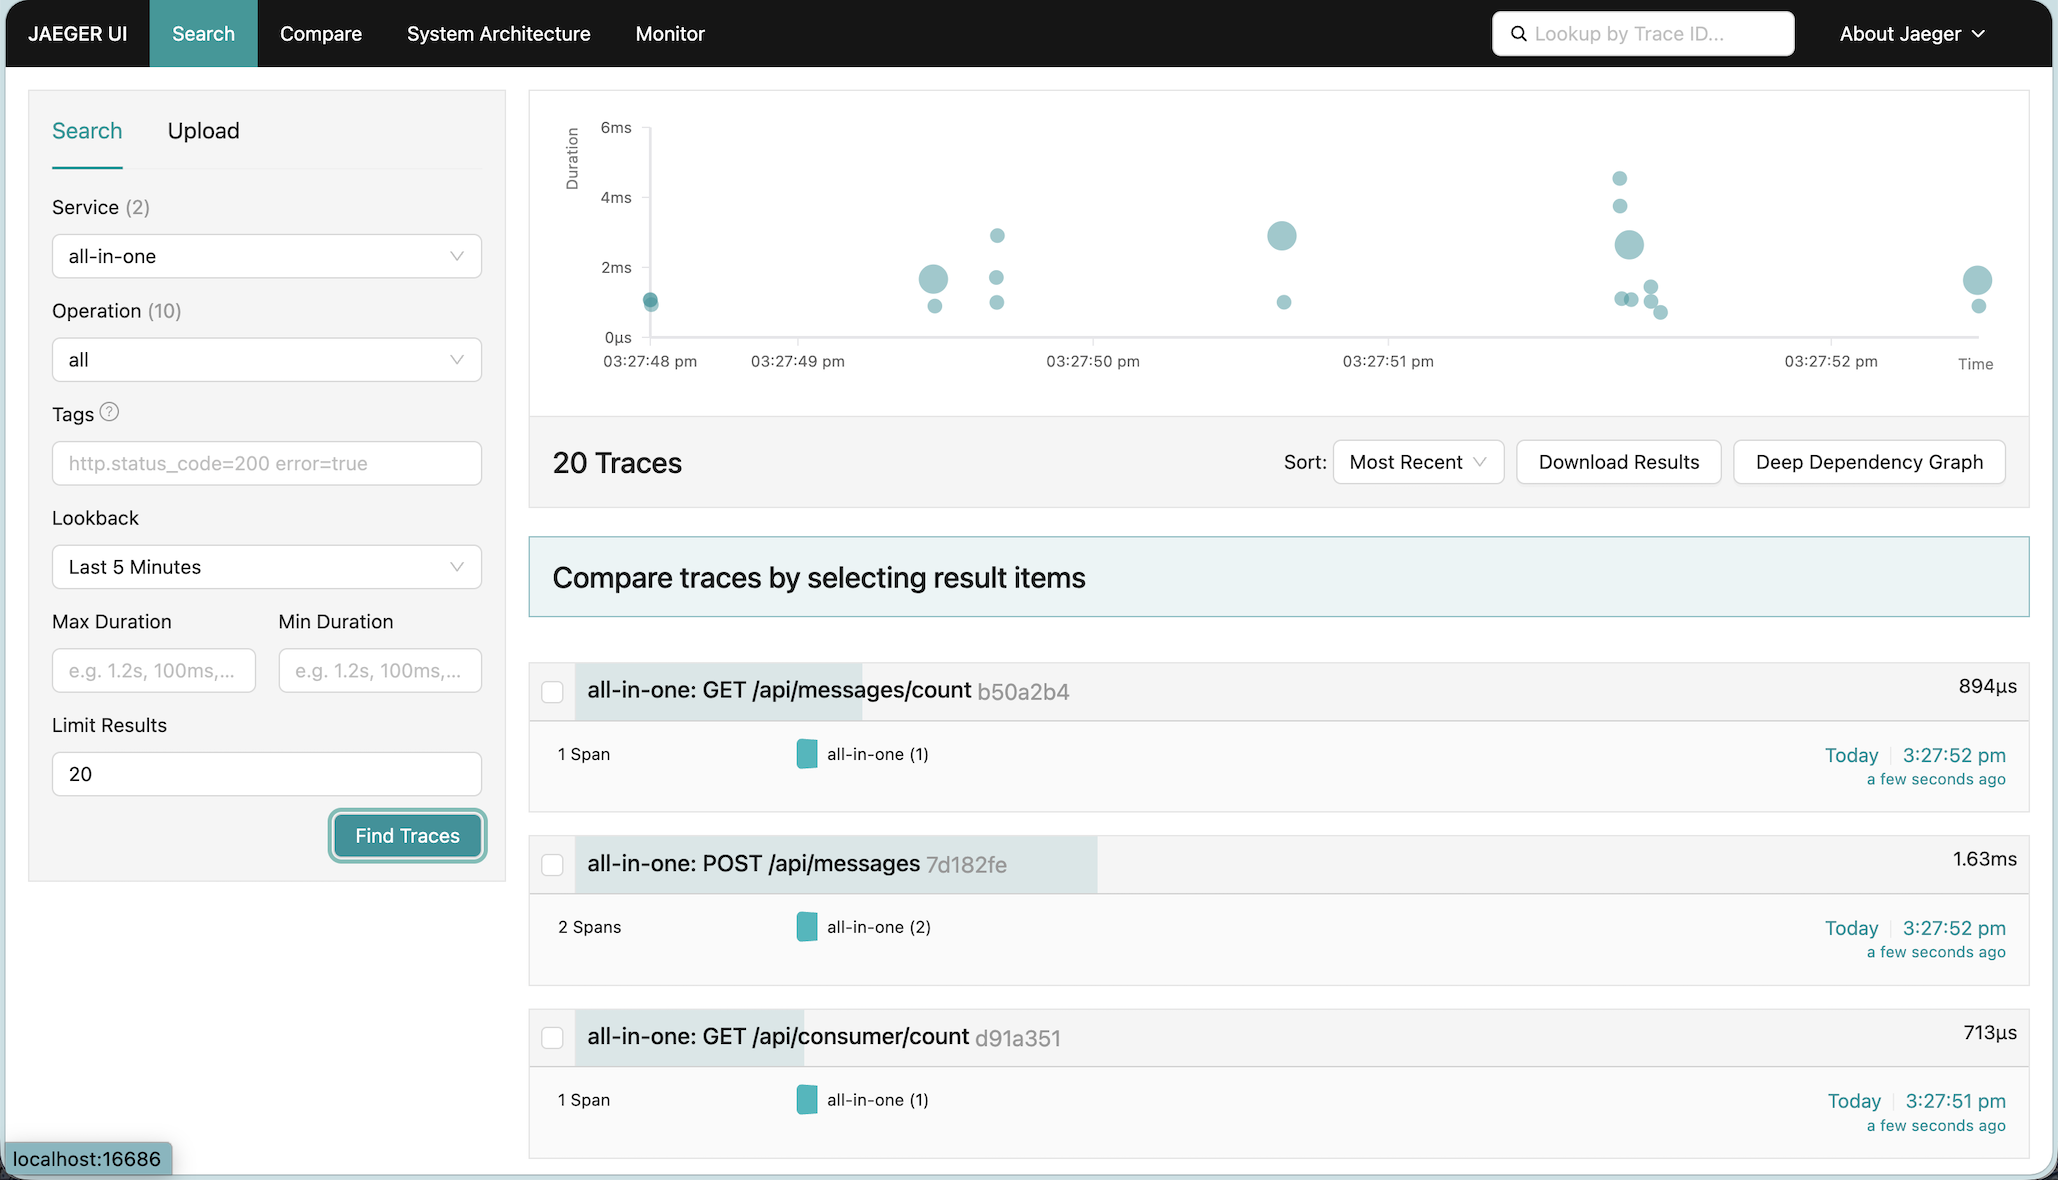
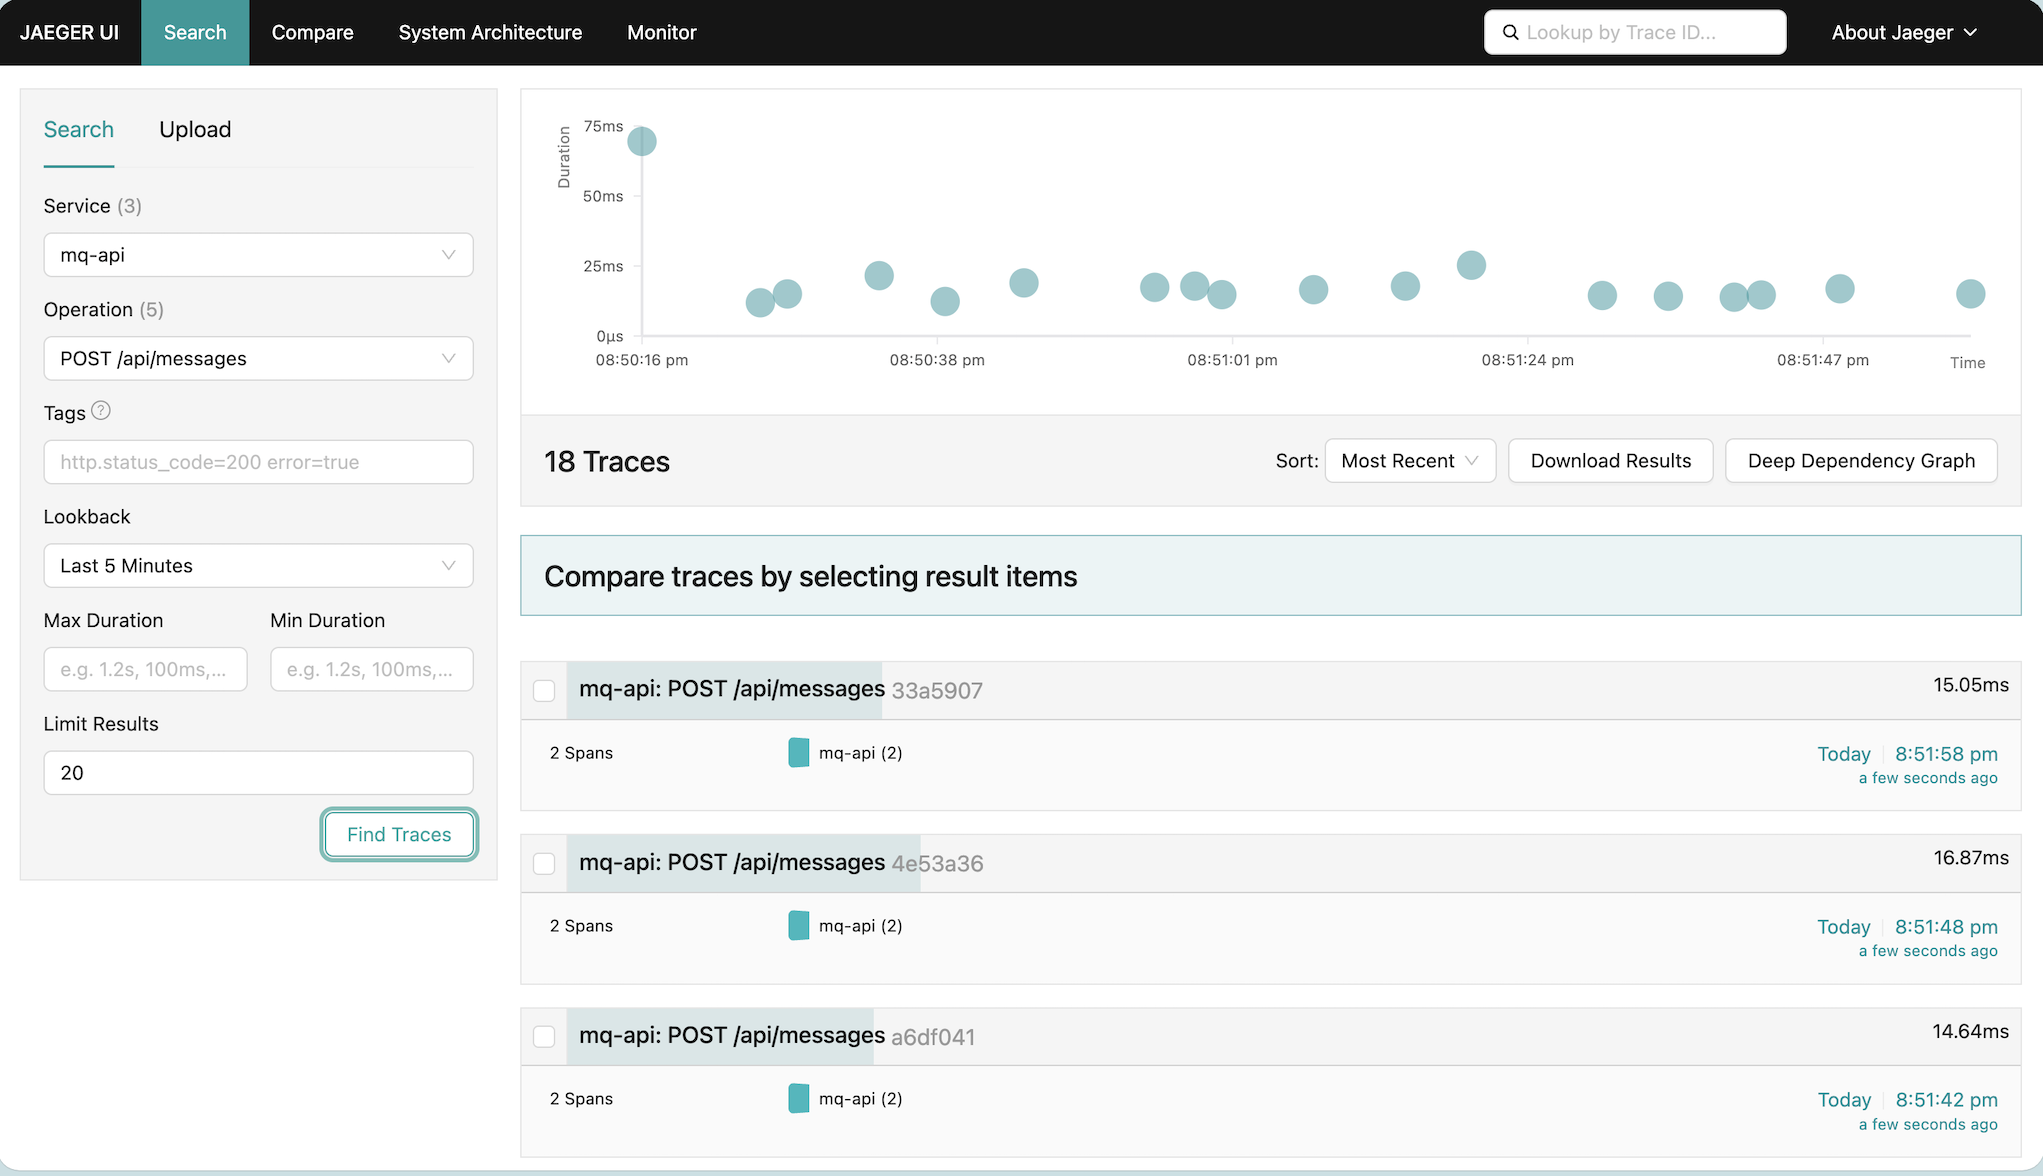
Test OTEL with all-in-one container

diff --git a/Metrics-and-OTEL.md b/Metrics-and-OTEL.md
@@ -290,14 +290,36 @@ Jaeger listens on:
 A pre-built container image is available at `quay.io/voravitl/simple-mq-app:otel` (public, no auth required):
 
 ```bash
-podman run -p 8080:8080 \
-  --network mq-ha-net \
-  -e IBM_MQ_CONNECTION_LIST="mq-node-1(1414),mq-node-2(1414),mq-node-3(1414)" \
-  -e QUARKUS_OTEL_EXPORTER_OTLP_ENDPOINT="http://jaeger:4317" \
+podman run --name="all-in-one" -p 8080:8080 \
+  -v ./config/application.otel.properties:/config/application.properties \
+  -e QUARKUS_CONFIG_LOCATIONS="file:///config/application.properties" \
   quay.io/voravitl/simple-mq-app:otel
 ```
 
-Once the `all-in-one-app` is running and receiving traffic, open the [Jaeger UI](http://localhost:16686), select service **all-in-one**, and click **Find Traces** to view distributed traces.
+Put message via API
+
+```bash
+curl -X POST \
+http://localhost:8080/api/messages  \
+-H "Content-Type: application/json" \
+ -d '{"text":"Jack Johnson"}'
+```
+
+Loop for 20 messages
+
+```bash
+COUNT=0
+while [ $COUNT -lt 20 ];
+do
+curl -X POST \
+http://localhost:8080/api/messages  -H "Content-Type: application/json" -d '{"text":"Jack Johnson"}';
+NUMBER=$(( RANDOM % 10 + 1 ))
+sleep $NUMBER
+COUNT=$(expr $COUNT + 1 )
+done
+```
+
+Once the `all-in-one-app` is running and receiving traffic, open the [Jaeger UI](http://localhost:16686), select service **mq-api**, and click **Find Traces** to view distributed traces.
 
 Jaeger - all-in-one app
 
